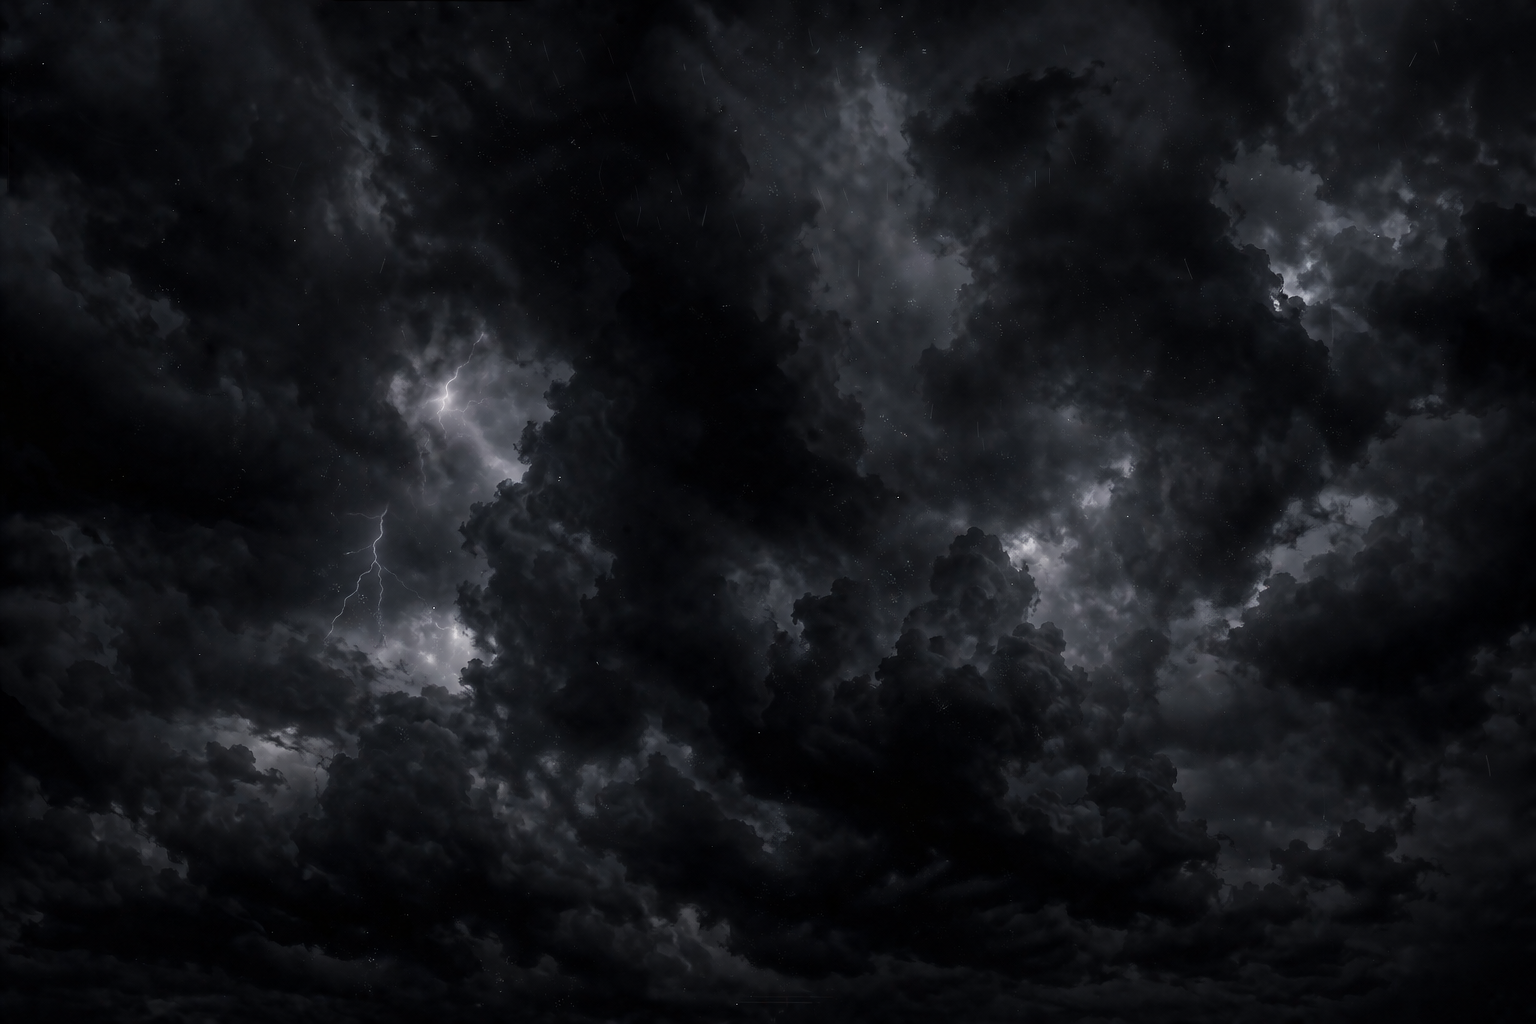
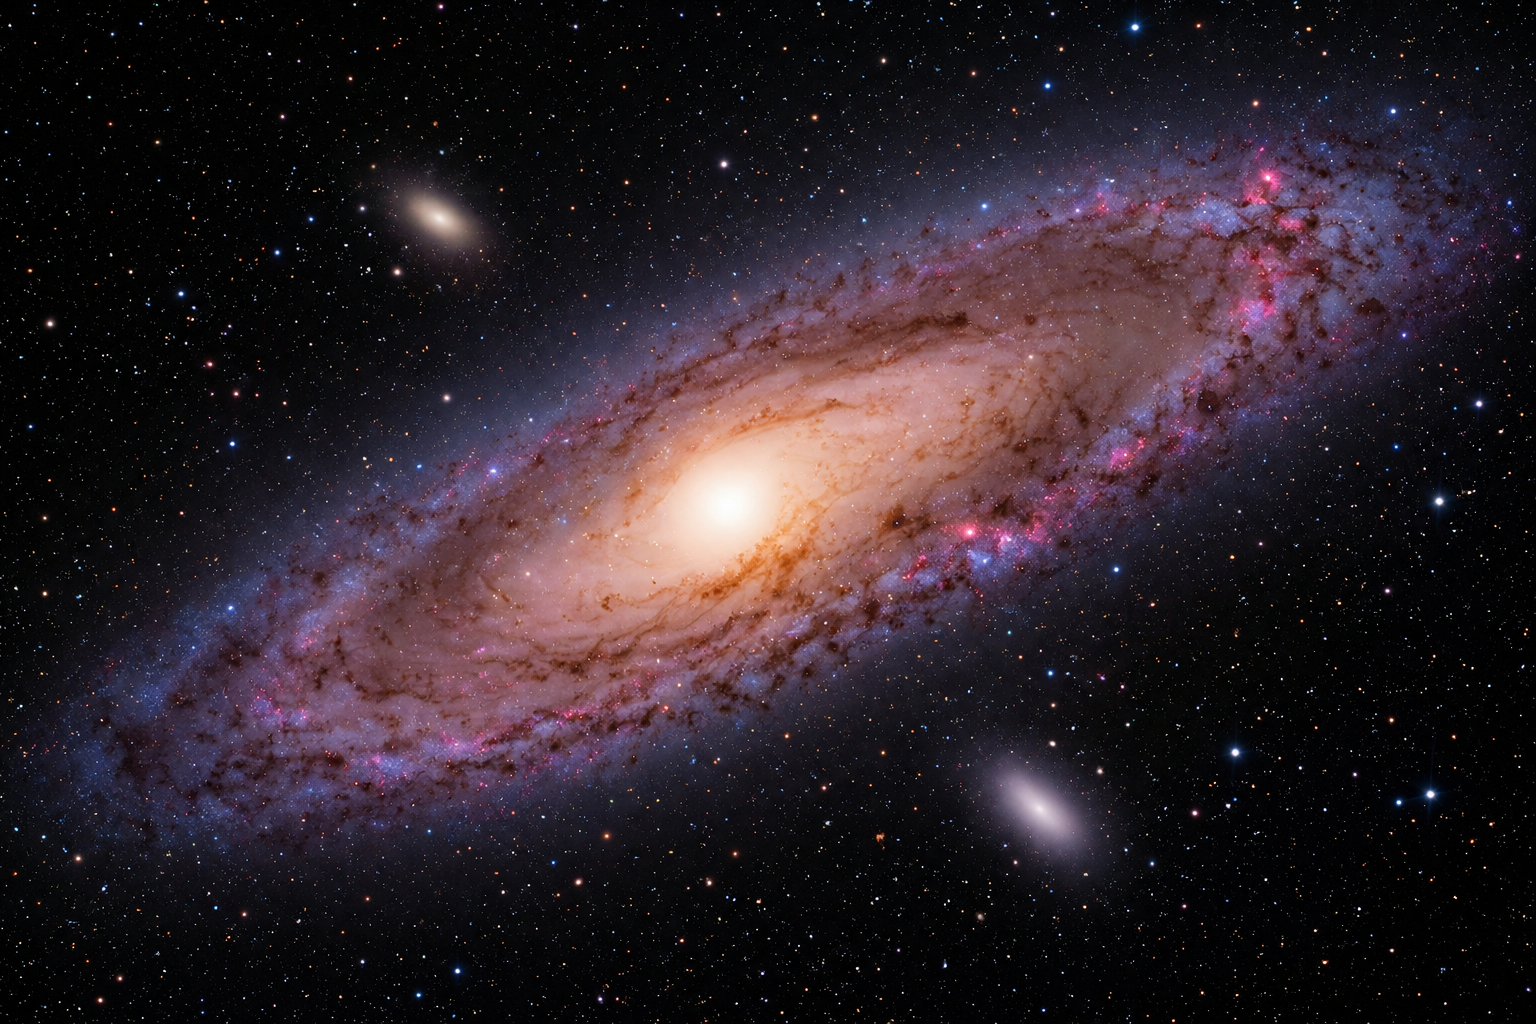
Add files via upload

diff --git a/style.css b/style.css
@@ -32,6 +32,8 @@ body{
 }
 .left{
     background-color: #090e15;
+    backdrop-filter: blur(15px);
+    border: 1px solid rgba(255,255,255,0.2);
     height: 100%;
     width:25%;
     position: absolute;
@@ -162,6 +164,7 @@ body{
     border: .5px solid #271858;
     overflow-y: auto;
     overflow-x: hidden;
+    backdrop-filter: blur(15px);
 }
 .para::-webkit-scrollbar{
     display: none;
@@ -181,6 +184,7 @@ body{
     width:23%;
 
     background-color:#090d15;
+    backdrop-filter: blur(15px);
     border: .5px solid grey;
     border-radius: 8px;
     display: flex;

diff --git a/index.html b/index.html
@@ -42,6 +42,15 @@
     <link rel="shortcut icon" href="mylogo.png" type="image/x-icon">
     <link rel="stylesheet" href="style.css">
     <link href="https://fonts.googleapis.com/css2?family=JetBrains+Mono&display=swap" rel="stylesheet">
+    <!-- Google tag (gtag.js) -->
+<script async src="https://www.googletagmanager.com/gtag/js?id=G-E615BTZY1J"></script>
+<script>
+  window.dataLayer = window.dataLayer || [];
+  function gtag(){dataLayer.push(arguments);}
+  gtag('js', new Date());
+
+  gtag('config', 'G-E615BTZY1J');
+</script>
 </head>
 
 <body>
